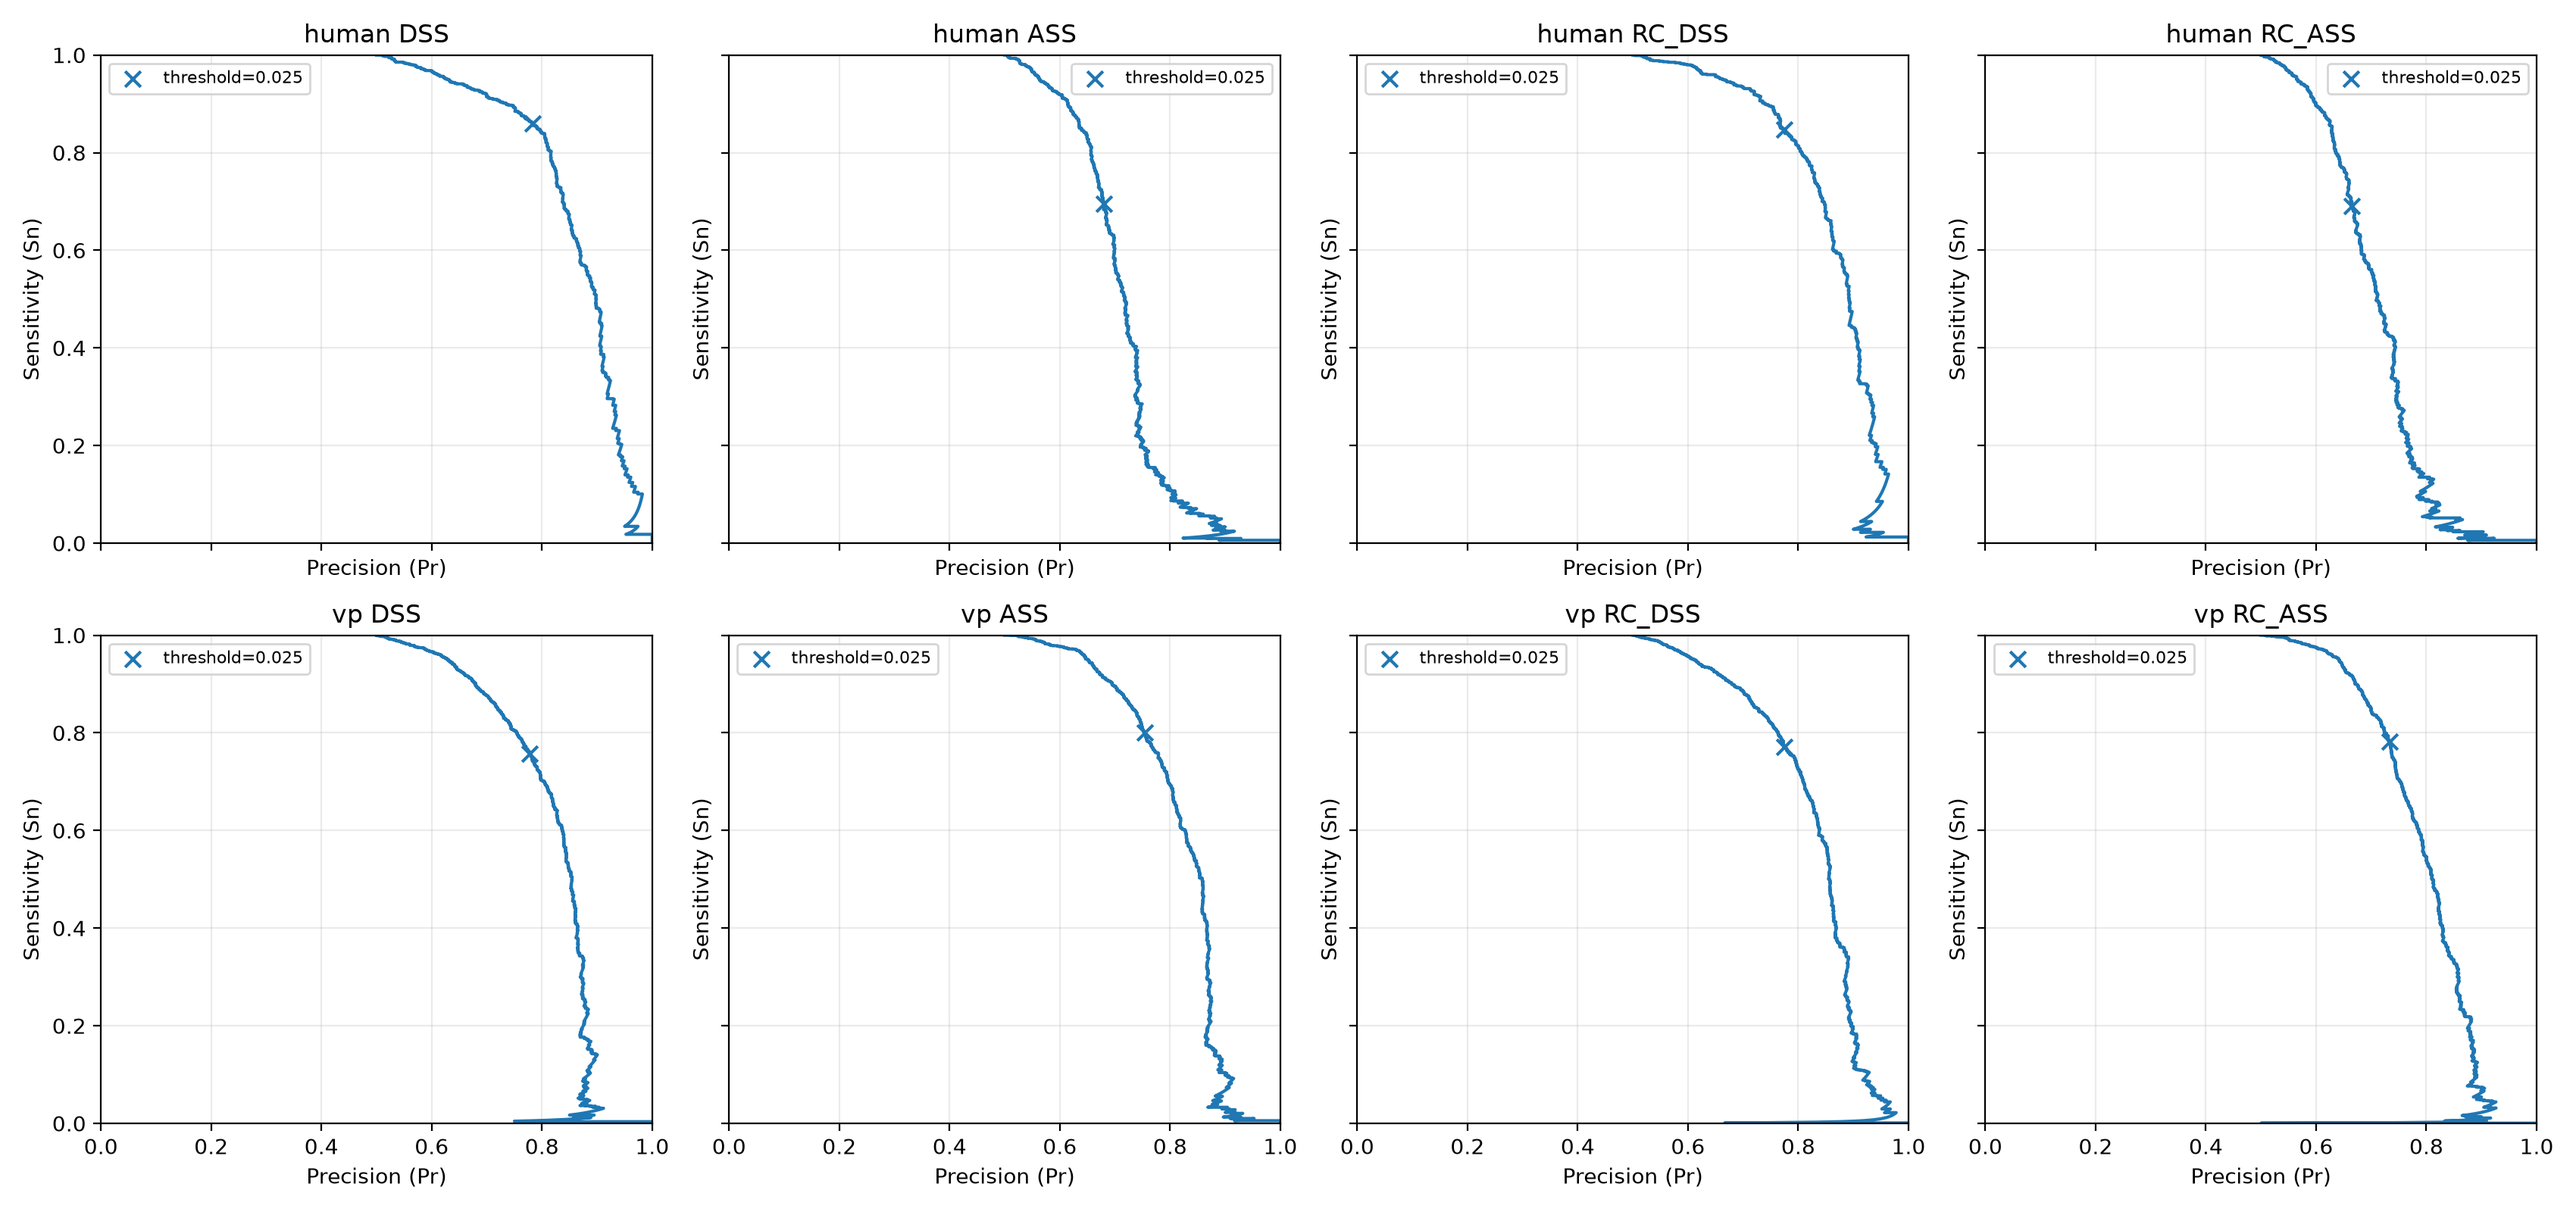
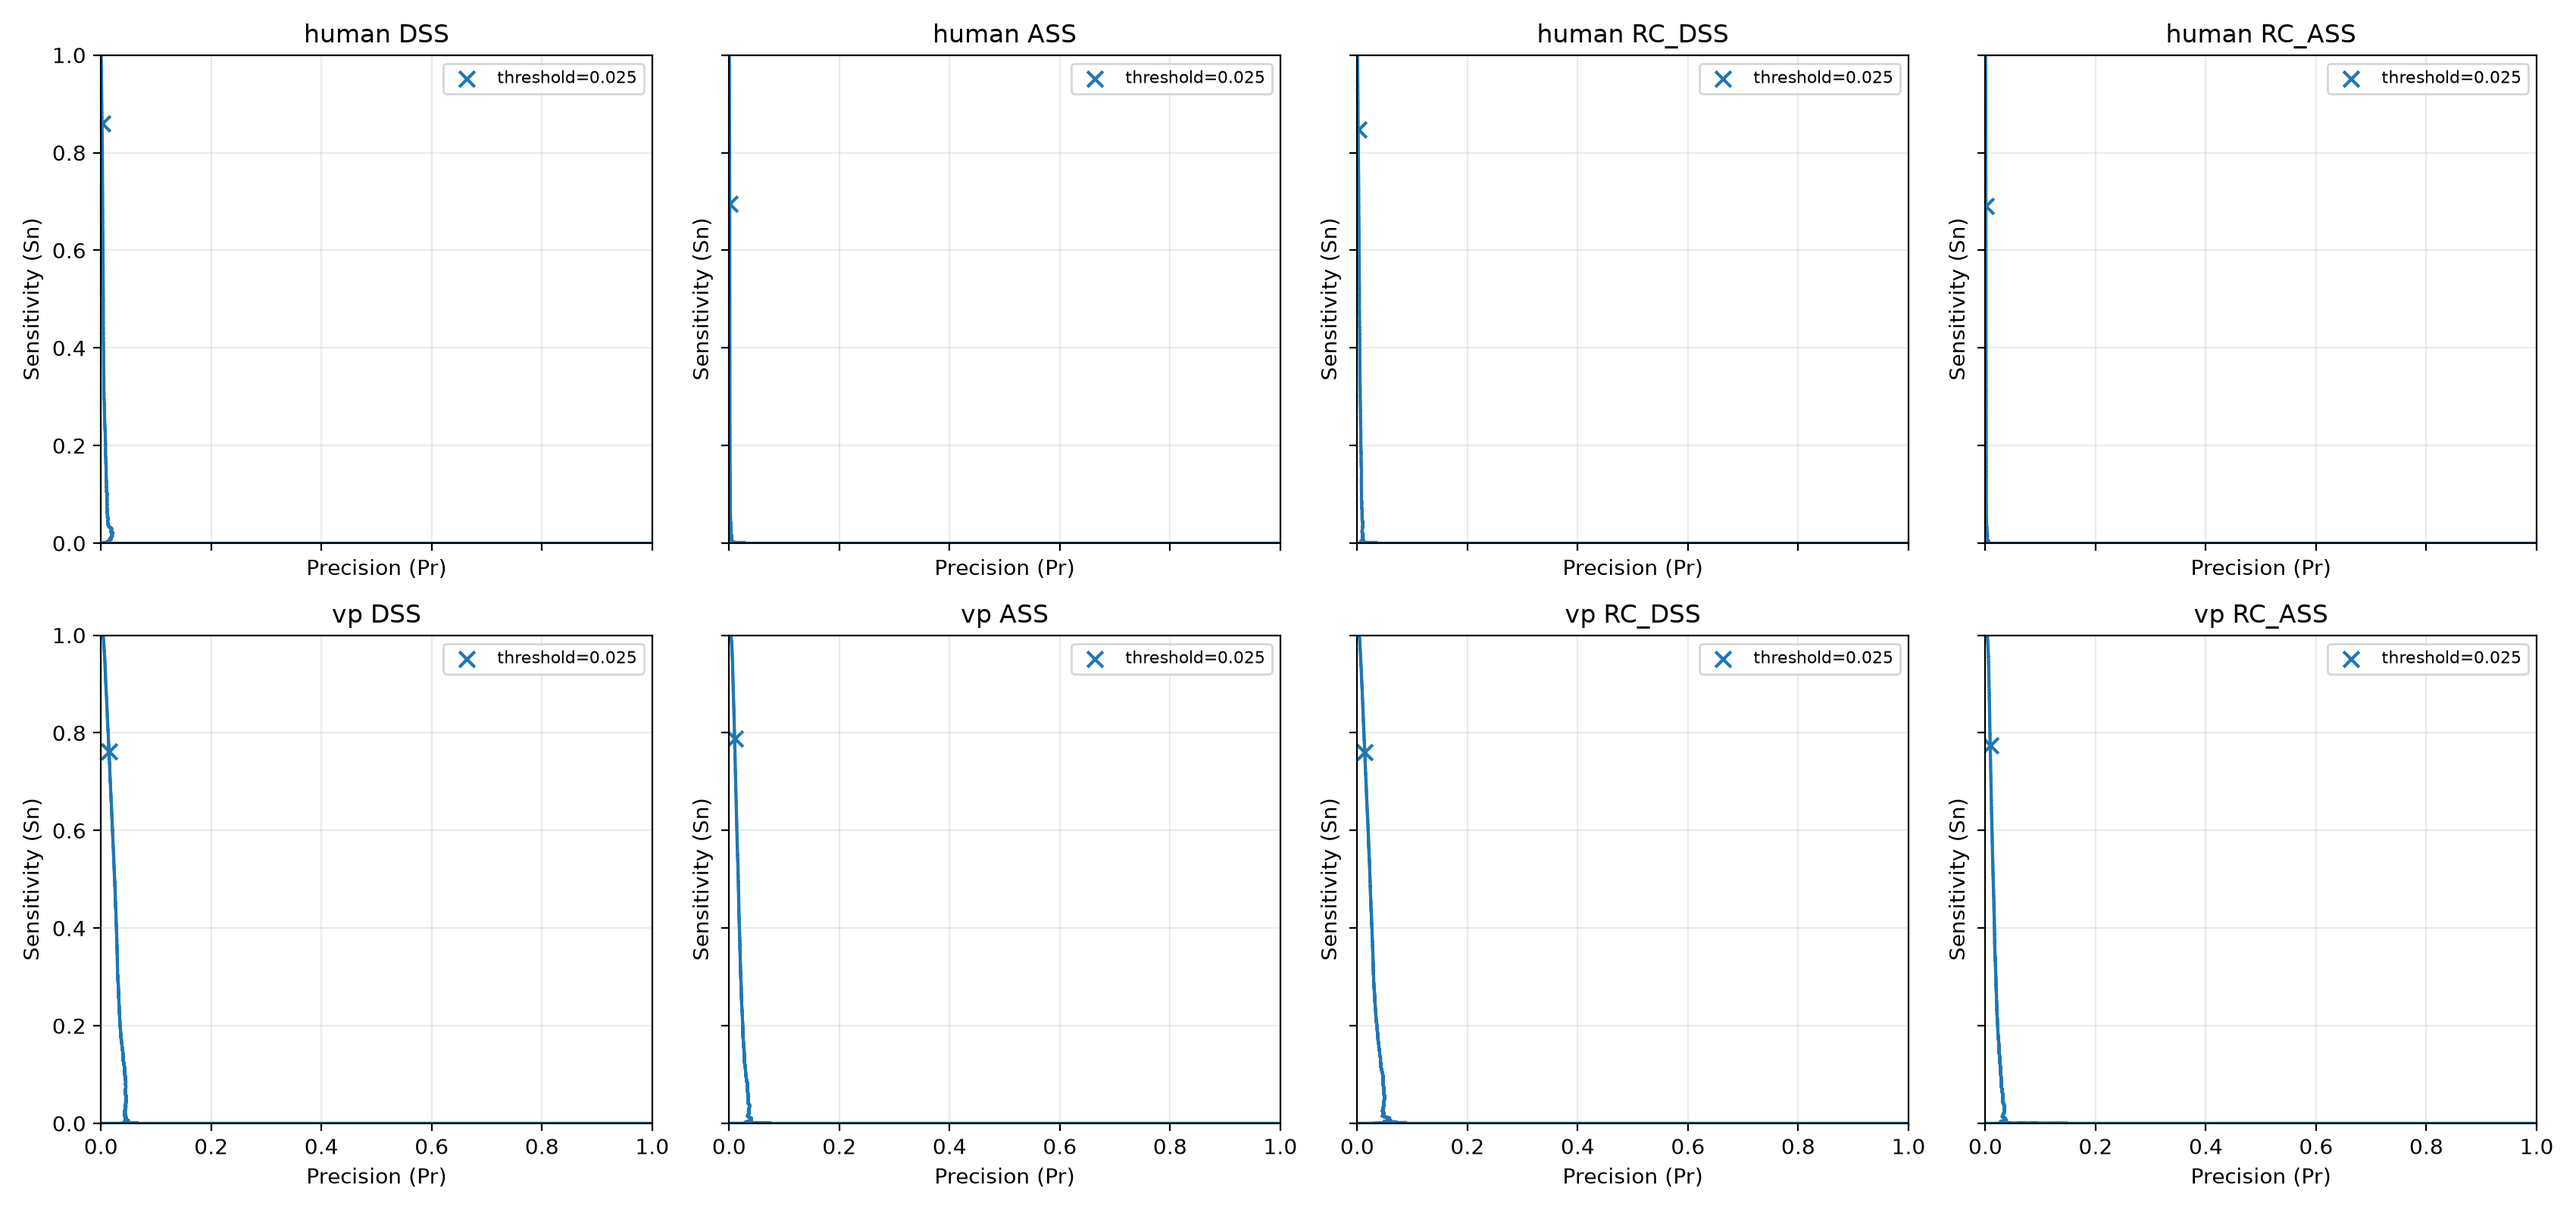
공정하게.. (1대1 샘플링 없이)

diff --git a/splice.py b/splice.py
@@ -12,7 +12,6 @@ matplotlib.use("Agg")
 
 import matplotlib.pyplot as plt
 import numpy as np
-from numba import njit
 
 from accuracy import read_gff3
 from cwt_features import LUT, PERIODS, W0, CwtFeatureBank, _motif_mask, cwt_features
@@ -25,7 +24,6 @@ GROUP_CONFIG = {
     "RC_ASS": ("-", "CT", 1, 1),
 }
 FEATURE_CHANNELS = 12 * len(PERIODS)
-MAX_TEST_POSITIVES = 2000
 GENES_PER_DATASET = 100
 MATCH_THRESHOLD = 0.025
 TEMPLATE_PATH = "splice_templates_train_100genes.npz"
@@ -229,31 +227,6 @@ def scan_candidates(sequence, group: str):
     return np.flatnonzero(_motif_mask(sequence, motifs, lengths))
 
 
-def sample_candidates(starts, truth, rng, max_positives=MAX_TEST_POSITIVES):
-    positive = np.asarray(sorted(truth), dtype=np.int64)
-    n_positive = min(len(positive), max_positives)
-    n_negative = min(len(starts) - len(positive), n_positive)
-    if not n_positive:
-        return [], 0, 0
-    selected_positive = rng.choice(positive, size=n_positive, replace=False)
-    selected_negative = []
-    seen_negative = set()
-    while len(selected_negative) < n_negative:
-        remaining = n_negative - len(selected_negative)
-        indices = rng.integers(0, len(starts), size=max(32, 2 * remaining))
-        for index in indices:
-            start = int(starts[index])
-            if start not in truth and start not in seen_negative:
-                selected_negative.append(start)
-                seen_negative.add(start)
-                if len(selected_negative) == n_negative:
-                    break
-    selected = np.concatenate(
-        (selected_positive, np.asarray(selected_negative, dtype=np.int64))
-    )
-    selected.sort()
-    return selected.tolist(), n_positive, n_negative
-
 
 def normalize_features(features):
     norms = np.linalg.norm(features, axis=1, keepdims=True)
@@ -265,24 +238,32 @@ def normalize_features(features):
     )
 
 
-@njit(cache=True)
-def nearest_cosine(candidates, templates):
+def nearest_cosine(candidates, templates, chunk_size=8192):
+    """Return each candidate's cosine distance to its nearest template."""
     distances = np.empty(candidates.shape[0], dtype=np.float32)
-    for candidate_index in range(candidates.shape[0]):
-        best_similarity = -np.inf
-        for template_index in range(templates.shape[0]):
-            similarity = 0.0
-            for channel in range(candidates.shape[1]):
-                similarity += (
-                    candidates[candidate_index, channel]
-                    * templates[template_index, channel]
-                )
-            best_similarity = max(best_similarity, similarity)
-        if best_similarity > 1.0:
-            best_similarity = 1.0
-        elif best_similarity < -1.0:
-            best_similarity = -1.0
-        distances[candidate_index] = 1.0 - best_similarity
+    template_matrix = np.ascontiguousarray(templates.T)
+    for start in range(0, len(candidates), chunk_size):
+        end = min(start + chunk_size, len(candidates))
+        similarities = candidates[start:end] @ template_matrix
+        best = similarities.max(axis=1)
+        np.clip(best, -1.0, 1.0, out=best)
+        distances[start:end] = 1.0 - best
+    return distances
+
+
+def score_candidates(bank, starts, group, template_units, chunk_size=100_000):
+    """Score every motif candidate while bounding feature-memory use."""
+    starts = np.asarray(starts, dtype=np.int64)
+    distances = np.empty(len(starts), dtype=np.float32)
+    _, _, strand_code, position_shift = GROUP_CONFIG[group]
+    strands = np.full(min(chunk_size, len(starts)), strand_code, dtype=np.int8)
+    for offset in range(0, len(starts), chunk_size):
+        end = min(offset + chunk_size, len(starts))
+        positions = starts[offset:end] + position_shift
+        features = bank.gather(positions, strands[: end - offset])
+        distances[offset:end] = nearest_cosine(
+            normalize_features(features), template_units[group]
+        )
     return distances
 
 
@@ -304,12 +285,24 @@ def counts(predicted: set[int], truth: set[int]):
 
 
 def result_at_threshold(starts, distances, truth, threshold):
-    predicted = {
-        start
-        for start, distance in zip(starts, distances)
-        if float(distance) <= threshold
+    starts = np.asarray(starts, dtype=np.int64)
+    truth_positions = np.fromiter(truth, dtype=np.int64, count=len(truth))
+    is_truth = np.isin(starts, truth_positions, assume_unique=True)
+    predicted = distances <= threshold
+    tp = int(np.count_nonzero(predicted & is_truth))
+    fp = int(np.count_nonzero(predicted)) - tp
+    fn = len(truth) - tp
+    precision = tp / (tp + fp) if tp + fp else 0.0
+    recall = tp / (tp + fn) if tp + fn else 0.0
+    f1 = 2 * tp / (2 * tp + fp + fn) if 2 * tp + fp + fn else 0.0
+    return {
+        "tp": tp,
+        "fp": fp,
+        "fn": fn,
+        "precision": precision,
+        "recall": recall,
+        "f1": f1,
     }
-    return counts(predicted, truth)
 
 
 def aggregate(results):
@@ -338,34 +331,25 @@ def format_result(result):
 
 
 def sn_pr_curve(starts, distances, truth):
+    if not len(distances):
+        empty = np.empty(0, dtype=np.float64)
+        return empty, empty, empty
     order = np.argsort(distances, kind="stable")
     sorted_distances = distances[order]
     sorted_starts = np.asarray(starts, dtype=np.int64)[order]
-    positive_count = len(set(starts) & truth)
-    thresholds = [float("-inf")]
-    sensitivities = [0.0]
-    precisions = [1.0]
-    tp = fp = 0
-    index = 0
-
-    while index < len(sorted_distances):
-        threshold = float(sorted_distances[index])
-        next_index = index
-        while (
-            next_index < len(sorted_distances)
-            and sorted_distances[next_index] == threshold
-        ):
-            if int(sorted_starts[next_index]) in truth:
-                tp += 1
-            else:
-                fp += 1
-            next_index += 1
-        thresholds.append(threshold)
-        sensitivities.append(tp / positive_count if positive_count else 0.0)
-        precisions.append(tp / (tp + fp) if tp + fp else 1.0)
-        index = next_index
-
-    return np.asarray(thresholds), np.asarray(sensitivities), np.asarray(precisions)
+    truth_positions = np.fromiter(truth, dtype=np.int64, count=len(truth))
+    sorted_truth = np.isin(sorted_starts, truth_positions, assume_unique=True)
+    cumulative_tp = np.cumsum(sorted_truth, dtype=np.int64)
+    group_ends = np.r_[
+        np.flatnonzero(sorted_distances[1:] != sorted_distances[:-1]),
+        len(sorted_distances) - 1,
+    ]
+    tp = cumulative_tp[group_ends]
+    predicted = group_ends + 1
+    thresholds = np.r_[float("-inf"), sorted_distances[group_ends]]
+    sensitivities = np.r_[0.0, tp / len(truth) if truth else np.zeros(len(tp))]
+    precisions = np.r_[1.0, tp / predicted]
+    return thresholds, sensitivities, precisions
 
 
 def plot_sn_pr(test_results, threshold, output):
@@ -438,7 +422,6 @@ def test_templates():
     for group in GROUPS:
         print(f"  {group:7s} {len(templates[group]):,}")
 
-    rng = np.random.default_rng(0)
     test_results = {}
     for dataset in TEST_DATASETS:
         fasta, truth_path = DATASETS[dataset]
@@ -449,56 +432,41 @@ def test_templates():
             group: set(canonical_sites(sequence, sites_by_gene, group))
             for group in GROUPS
         }
-        sampled_starts = {}
-        sampled_truth = {}
-        pool_counts = {}
-        for group in GROUPS:
-            starts = scan_candidates(sequence, group)
-            positive_pool = len(truth_by_group[group])
-            selected, _, _ = sample_candidates(
-                starts, truth_by_group[group], rng, MAX_TEST_POSITIVES
-            )
-            sampled_starts[group] = selected
-            sampled_truth[group] = set(selected) & truth_by_group[group]
-            pool_counts[group] = (
-                len(starts),
-                positive_pool,
-                len(starts) - positive_pool,
-            )
-            del starts
-
         bank = CwtFeatureBank(sequence, PERIODS, W0)
-        candidate_features = collect_features(bank, sampled_starts)
         test_results[dataset] = {}
         class_results = []
         print(
-            f"\n{dataset} ({seqid}, {len(sequence):,} bp), threshold={MATCH_THRESHOLD:.3f}"
+            f"\n{dataset} ({seqid}, {len(sequence):,} bp), "
+            f"all motif candidates, threshold={MATCH_THRESHOLD:.3f}",
+            flush=True,
         )
         for group in GROUPS:
-            starts = sampled_starts[group]
-            truth = sampled_truth[group]
-            distances = nearest_cosine(
-                normalize_features(candidate_features[group]),
-                template_units[group],
-            )
+            starts = scan_candidates(sequence, group)
+            truth = truth_by_group[group]
+            distances = score_candidates(bank, starts, group, template_units)
             result = result_at_threshold(starts, distances, truth, MATCH_THRESHOLD)
-            baseline = counts(set(starts), truth)
-            full_candidates, full_positive, full_negative = pool_counts[group]
+            baseline = result_at_threshold(
+                starts, np.zeros(len(starts), dtype=np.float32), truth, 0.0
+            )
+            negative_count = max(0, len(starts) - len(truth))
+            predicted_count = result["tp"] + result["fp"]
             print(
-                f"  {group:7s} pool={full_candidates:,} "
-                f"sample={len(starts):,} ({len(truth):,}+{len(starts) - len(truth):,}) "
-                f"annotated_pool={full_positive:,} negatives_pool={full_negative:,}"
+                f"  {group:7s} candidates={len(starts):,} "
+                f"annotated={len(truth):,} negatives={negative_count:,} "
+                f"CWT-predicted={predicted_count:,}",
+                flush=True,
             )
             print(f"    motif-only: {format_result(baseline)}")
             print(f"    CWT match : {format_result(result)}")
             test_results[dataset][group] = (starts, distances, truth)
             class_results.append(result)
+            del starts, distances
 
-        print(f"  overall:    {format_result(aggregate(class_results))}")
-        del candidate_features, bank, transcripts, sites_by_gene, sequence
+        print(f"  overall:    {format_result(aggregate(class_results))}", flush=True)
+        del bank, transcripts, sites_by_gene, sequence
 
     plot_sn_pr(test_results, MATCH_THRESHOLD, PLOT_PATH)
-    print(f"Sn-Pr curve saved: {PLOT_PATH}")
+    print(f"Full-candidate Sn-Pr curve saved: {PLOT_PATH}")
 
 
 def main(argv: list[str] | None = None) -> int:
